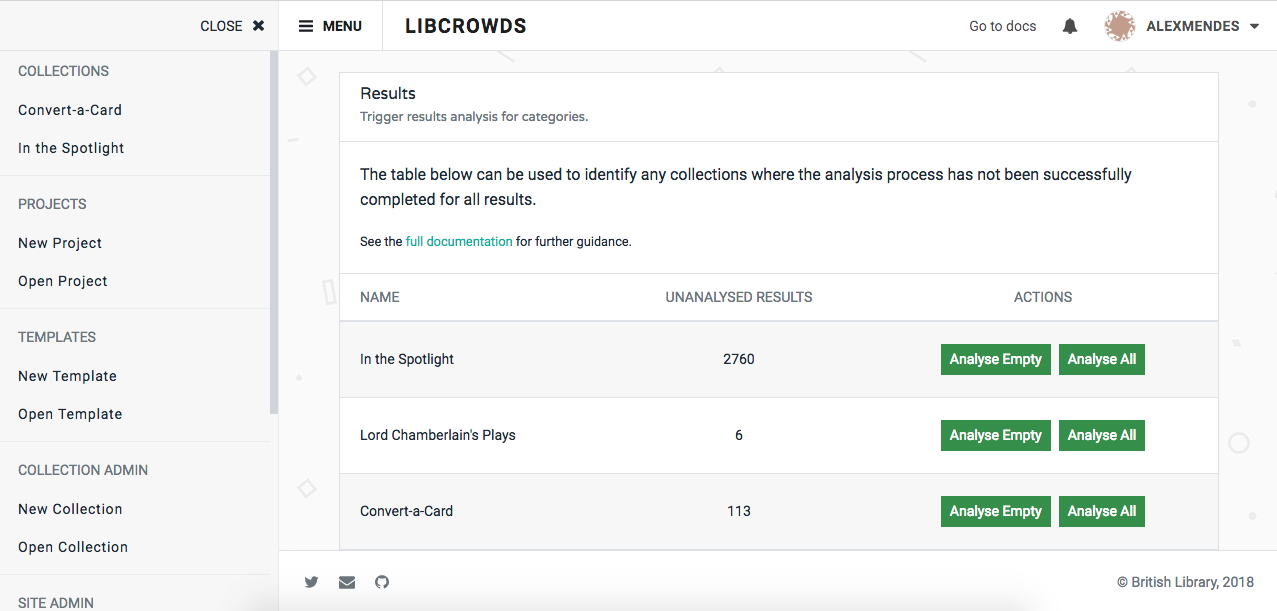
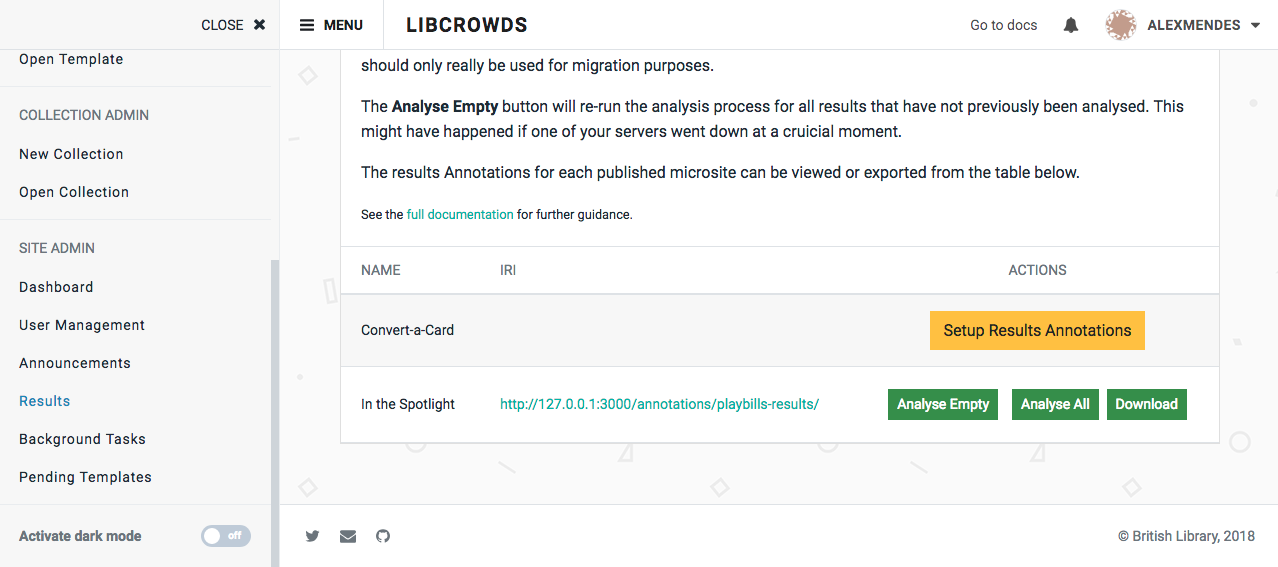
Update results docs

diff --git a/docs/site/results.md b/docs/site/results.md
@@ -1,7 +1,7 @@
-The results admin page contains a summary of all collections and a count of
-their unanalysed results. It can be used to monitor the outcome of the
-automated [results analysis](/analysis.md) process, or to manually trigger
-that process for a particular collection.
+The results admin page provides an overview of all results Annotations on the
+site. Links to the Annotations for each collection microsite are provided,
+along with buttons to export as JSON, or manually trigger the results analysis
+process for a particular collection.
 
 Note that there are certain scenarios where results will be excluded from the
 processes below, see [Results Analysis: Exclusion](/analysis.md#exclusion)
@@ -22,23 +22,35 @@ for details.
 ![A screenshot of the site admin results page](/assets/img/site/results.png?raw=true)
 <br><small>*A screenshot of the site admin results page*</small>
 
+The options listed below assume that an AnnotationCollection has been
+configured to store the results for a collection microsite. If this is not the
+case then the buttons mentioned below will not appear, instead you will see
+a button to guide you to **Setup Results Annotations** for the collection.
+
 ## Analysing empty results
 
 By default, results are generated with no content. It is only when the results
 analysis process runs that all associated contributions are checked and the
 results updated accordingly. If migrating from an old version of the software,
 or if the backend server has failed at a critical moment, you may end up with
-results for which the analysis process was not completed. A count of these
-is listed in the *Unanalysed Results* column.
+results for which the analysis process was not completed.
 
-To trigger the analysis process for all unanalysed results, click the
-**Analyse Empty** button.
+To trigger the analysis process for all empty results, click the
+**Analyse Empty** button alongside the relevant collection.
 
 ## Analysing all results
 
 There may occasions where you want to trigger the analysis process
-for all results associated with a collection. For instance, if the analysis
-process has undergone major changes since your results were last processed.
+for all results associated with a collection. For instance, if you are
+migrating all of your data to a new annotation server.
 
 To trigger the analysis process for all results, click the **Analyse All**
-button.
+button alongside the relevant collection.
+
+## Downloading results
+
+For the purposes of migration or offline analysis, all result Annotations can
+be downloaded as a zipped JSON file.
+
+To trigger the download, click the **Download** button alongside the
+relevant collection.
